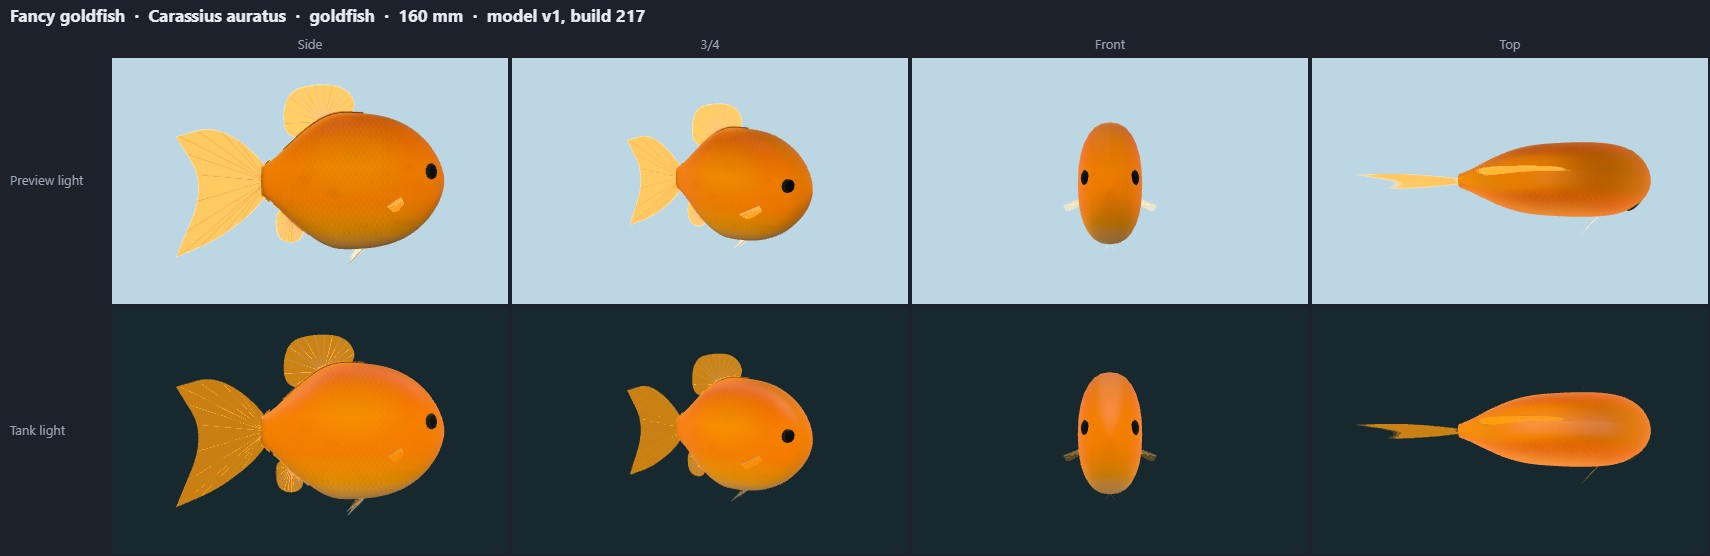
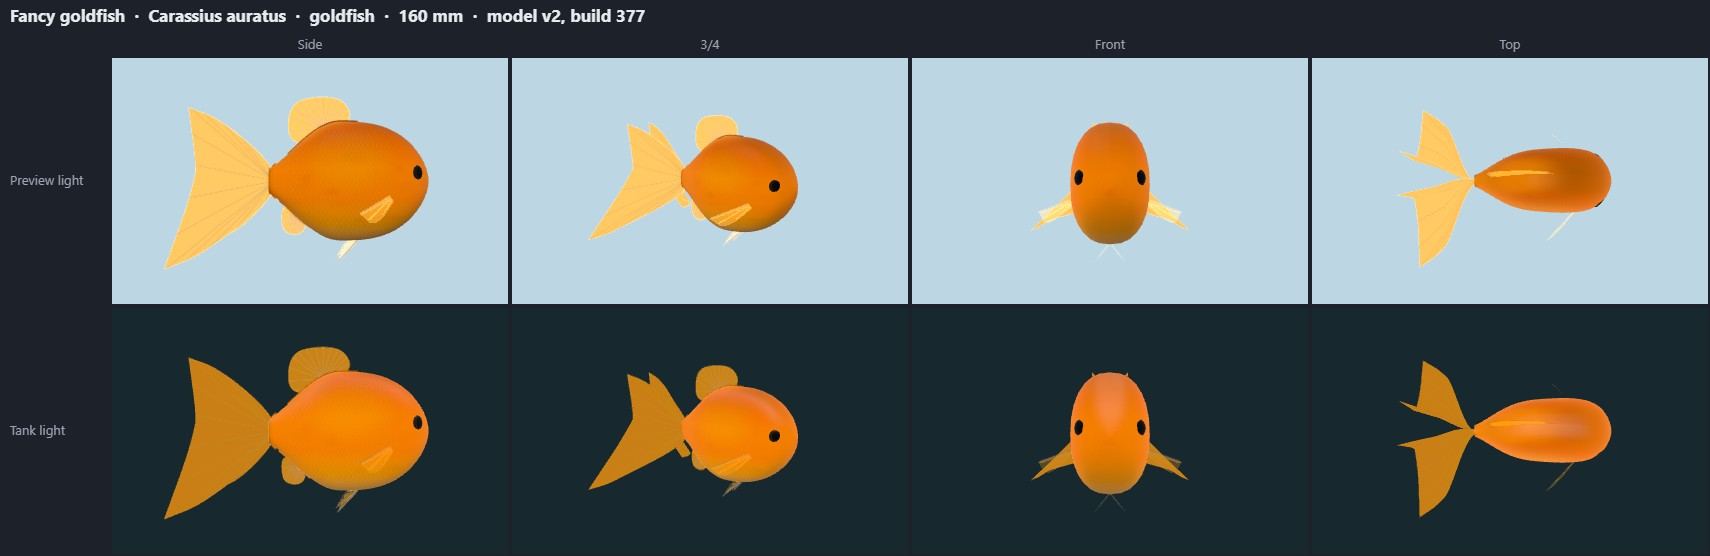
Lane F2: goldfish -> fantail (double caudal split 45, plumper body, larger paired fins), v2

diff --git a/public/model-sheets/index.html b/public/model-sheets/index.html
@@ -10,7 +10,7 @@ figure { margin: 8px 0 14px; padding: 8px; background: var(--panel); border-radi
 img { display: block; max-width: 100%; height: auto }
 </style></head><body>
 <h1>Model sheets</h1>
-<p>Pre-rendered review images of every TankLook animal model (no WebGL needed): 69 models, 58 species, written at build 374.
+<p>Pre-rendered review images of every TankLook animal model (no WebGL needed): 69 models, 58 species, written at build 377.
 Each sheet shows the Side, 3/4, Front, Top views; top row in the plain preview light, bottom row at true size in the default tank's LED light and water.
 Click a sheet for the full-size image (1710 × 556 px). Interactive version: <a href="../review.html">review.html</a>.</p>
 <h2>Freshwater fish</h2>
@@ -49,7 +49,7 @@ Click a sheet for the full-size image (1710 × 556 px). Interactive version: <a 
 <figure id="angel"><figcaption><b>Angelfish</b> · <i>Pterophyllum scalare</i> · angel · 150 mm · model v2 (build 334, 2026-10-14)</figcaption><a href="angel.jpg"><img src="angel.jpg" width="1710" height="556" loading="lazy" alt="Angelfish (Pterophyllum scalare), model v2: Side, 3/4, Front, Top views, preview light (top row) and tank light (bottom row)"></a></figure>
 <figure id="discus"><figcaption><b>Discus</b> · <i>Symphysodon aequifasciatus</i> · discus · 150 mm · model v3 (build 334, 2026-10-14)</figcaption><a href="discus.jpg"><img src="discus.jpg" width="1710" height="556" loading="lazy" alt="Discus (Symphysodon aequifasciatus), model v3: Side, 3/4, Front, Top views, preview light (top row) and tank light (bottom row)"></a></figure>
 <figure id="oscar"><figcaption><b>Oscar</b> · <i>Astronotus ocellatus</i> · oscar · 300 mm · model v2 (build 334, 2026-10-14)</figcaption><a href="oscar.jpg"><img src="oscar.jpg" width="1710" height="556" loading="lazy" alt="Oscar (Astronotus ocellatus), model v2: Side, 3/4, Front, Top views, preview light (top row) and tank light (bottom row)"></a></figure>
-<figure id="goldfish"><figcaption><b>Fancy goldfish</b> · <i>Carassius auratus</i> · goldfish · 160 mm · model v1 (build 217, 2026-10-14)</figcaption><a href="goldfish.jpg"><img src="goldfish.jpg" width="1710" height="556" loading="lazy" alt="Fancy goldfish (Carassius auratus), model v1: Side, 3/4, Front, Top views, preview light (top row) and tank light (bottom row)"></a></figure>
+<figure id="goldfish"><figcaption><b>Fancy goldfish</b> · <i>Carassius auratus</i> · goldfish · 160 mm · model v2 (build 377, 2026-10-14)</figcaption><a href="goldfish.jpg"><img src="goldfish.jpg" width="1710" height="556" loading="lazy" alt="Fancy goldfish (Carassius auratus), model v2: Side, 3/4, Front, Top views, preview light (top row) and tank light (bottom row)"></a></figure>
 <figure id="bronzecory"><figcaption><b>Bronze corydoras</b> · <i>Corydoras aeneus</i> · bronzecory · 65 mm · model v2 (build 359, 2026-10-14)</figcaption><a href="bronzecory.jpg"><img src="bronzecory.jpg" width="1710" height="556" loading="lazy" alt="Bronze corydoras (Corydoras aeneus), model v2: Side, 3/4, Front, Top views, preview light (top row) and tank light (bottom row)"></a></figure>
 <figure id="pandacory"><figcaption><b>Panda corydoras</b> · <i>Corydoras panda</i> · pandacory · 50 mm · model v2 (build 359, 2026-10-14)</figcaption><a href="pandacory.jpg"><img src="pandacory.jpg" width="1710" height="556" loading="lazy" alt="Panda corydoras (Corydoras panda), model v2: Side, 3/4, Front, Top views, preview light (top row) and tank light (bottom row)"></a></figure>
 <figure id="bristlenose"><figcaption><b>Bristlenose pleco</b> · <i>Ancistrus sp.</i> · bristlenose · 125 mm · model v2 (build 334, 2026-10-14)</figcaption><a href="bristlenose.jpg"><img src="bristlenose.jpg" width="1710" height="556" loading="lazy" alt="Bristlenose pleco (Ancistrus sp.), model v2: Side, 3/4, Front, Top views, preview light (top row) and tank light (bottom row)"></a></figure>

diff --git a/src/art/fishgen.ts b/src/art/fishgen.ts
@@ -550,8 +550,9 @@ export const PLANS: Record<string, Plan> = {
     anal: { at: 0.48, len: 0.26, h: 0.1, spines: 0.25, nSp: 3, spineH: [0.04, 0.06], rake: 0.5, trail: 0.04, a: 0.85 }, pelvic: { u: 0.64, len: 0.1, w: 1.2 },
     marks: [{ k: 'spots', n: 12, u0: 0.3, u1: 0.8, v0: -0.05, v1: 0.15, r: 0.045, c: '#c8642a', a: 0.6 }, { k: 'blob', u: 0.24, v: -0.02, ru: 0.04, rv: 0.04, c: '#d8702a', a: 0.9 }, { k: 'blob', u: 0.24, v: -0.02, ru: 0.022, rv: 0.022, c: '#141414', a: 0.95 }],
     eye: { r: 0.03, iris: ['#c84a2a', '#3a1208'] } },
-  goldfish: { thick: 0.55, depth: 0.52, pedU: 0.32, ped: 0.06, peak: 0.45, snout: 0.75, shade: ['#c8642a', '#e88a3a', '#f0b87a'], tail: { type: 'double', h: 0.3, tint: '#e8964e', a: 0.75 }, fin: '#ec9e5e',
-    dorsal: { u0: 0.42, u1: 0.68, h: 0.14, shape: 'round', a: 0.75 }, anal: { u0: 0.38, u1: 0.48, h: 0.1, shape: 'round', a: 0.75 }, pelvic: { u: 0.7, len: 0.1 },
+  // fantail (Nathan 2026-10-14): egg-shaped body, a paired double caudal that splits and spreads sideways (seen from above), larger paired fins
+  goldfish: { thick: 0.68, depth: 0.52, pedU: 0.32, ped: 0.06, peak: 0.45, snout: 0.75, shade: ['#c8642a', '#e88a3a', '#f0b87a'], tail: { type: 'notch', h: 0.3, split: 45, tint: '#e8964e', a: 0.75 }, fin: '#ec9e5e',
+    dorsal: { u0: 0.42, u1: 0.68, h: 0.14, shape: 'round', a: 0.75 }, anal: { u0: 0.38, u1: 0.48, h: 0.1, shape: 'round', a: 0.75 }, pelvic: { u: 0.7, len: 0.15, w: 1.4 }, pec: { s: 2 },
     marks: [{ k: 'blob', u: 0.65, v: -0.08, ru: 0.2, rv: 0.14, c: '#ffffff', a: 0.12 }], eye: { r: 0.035, iris: ['#2a2420', '#0a0806'] } },
   // marbled hatchetfish: straight back, deep keel of a belly (most of the depth under the centre line), upturned mouth,
   // big high eye, small dorsal set far back over a long anal fin; silvery with dark marbled bands slanting across the keel
